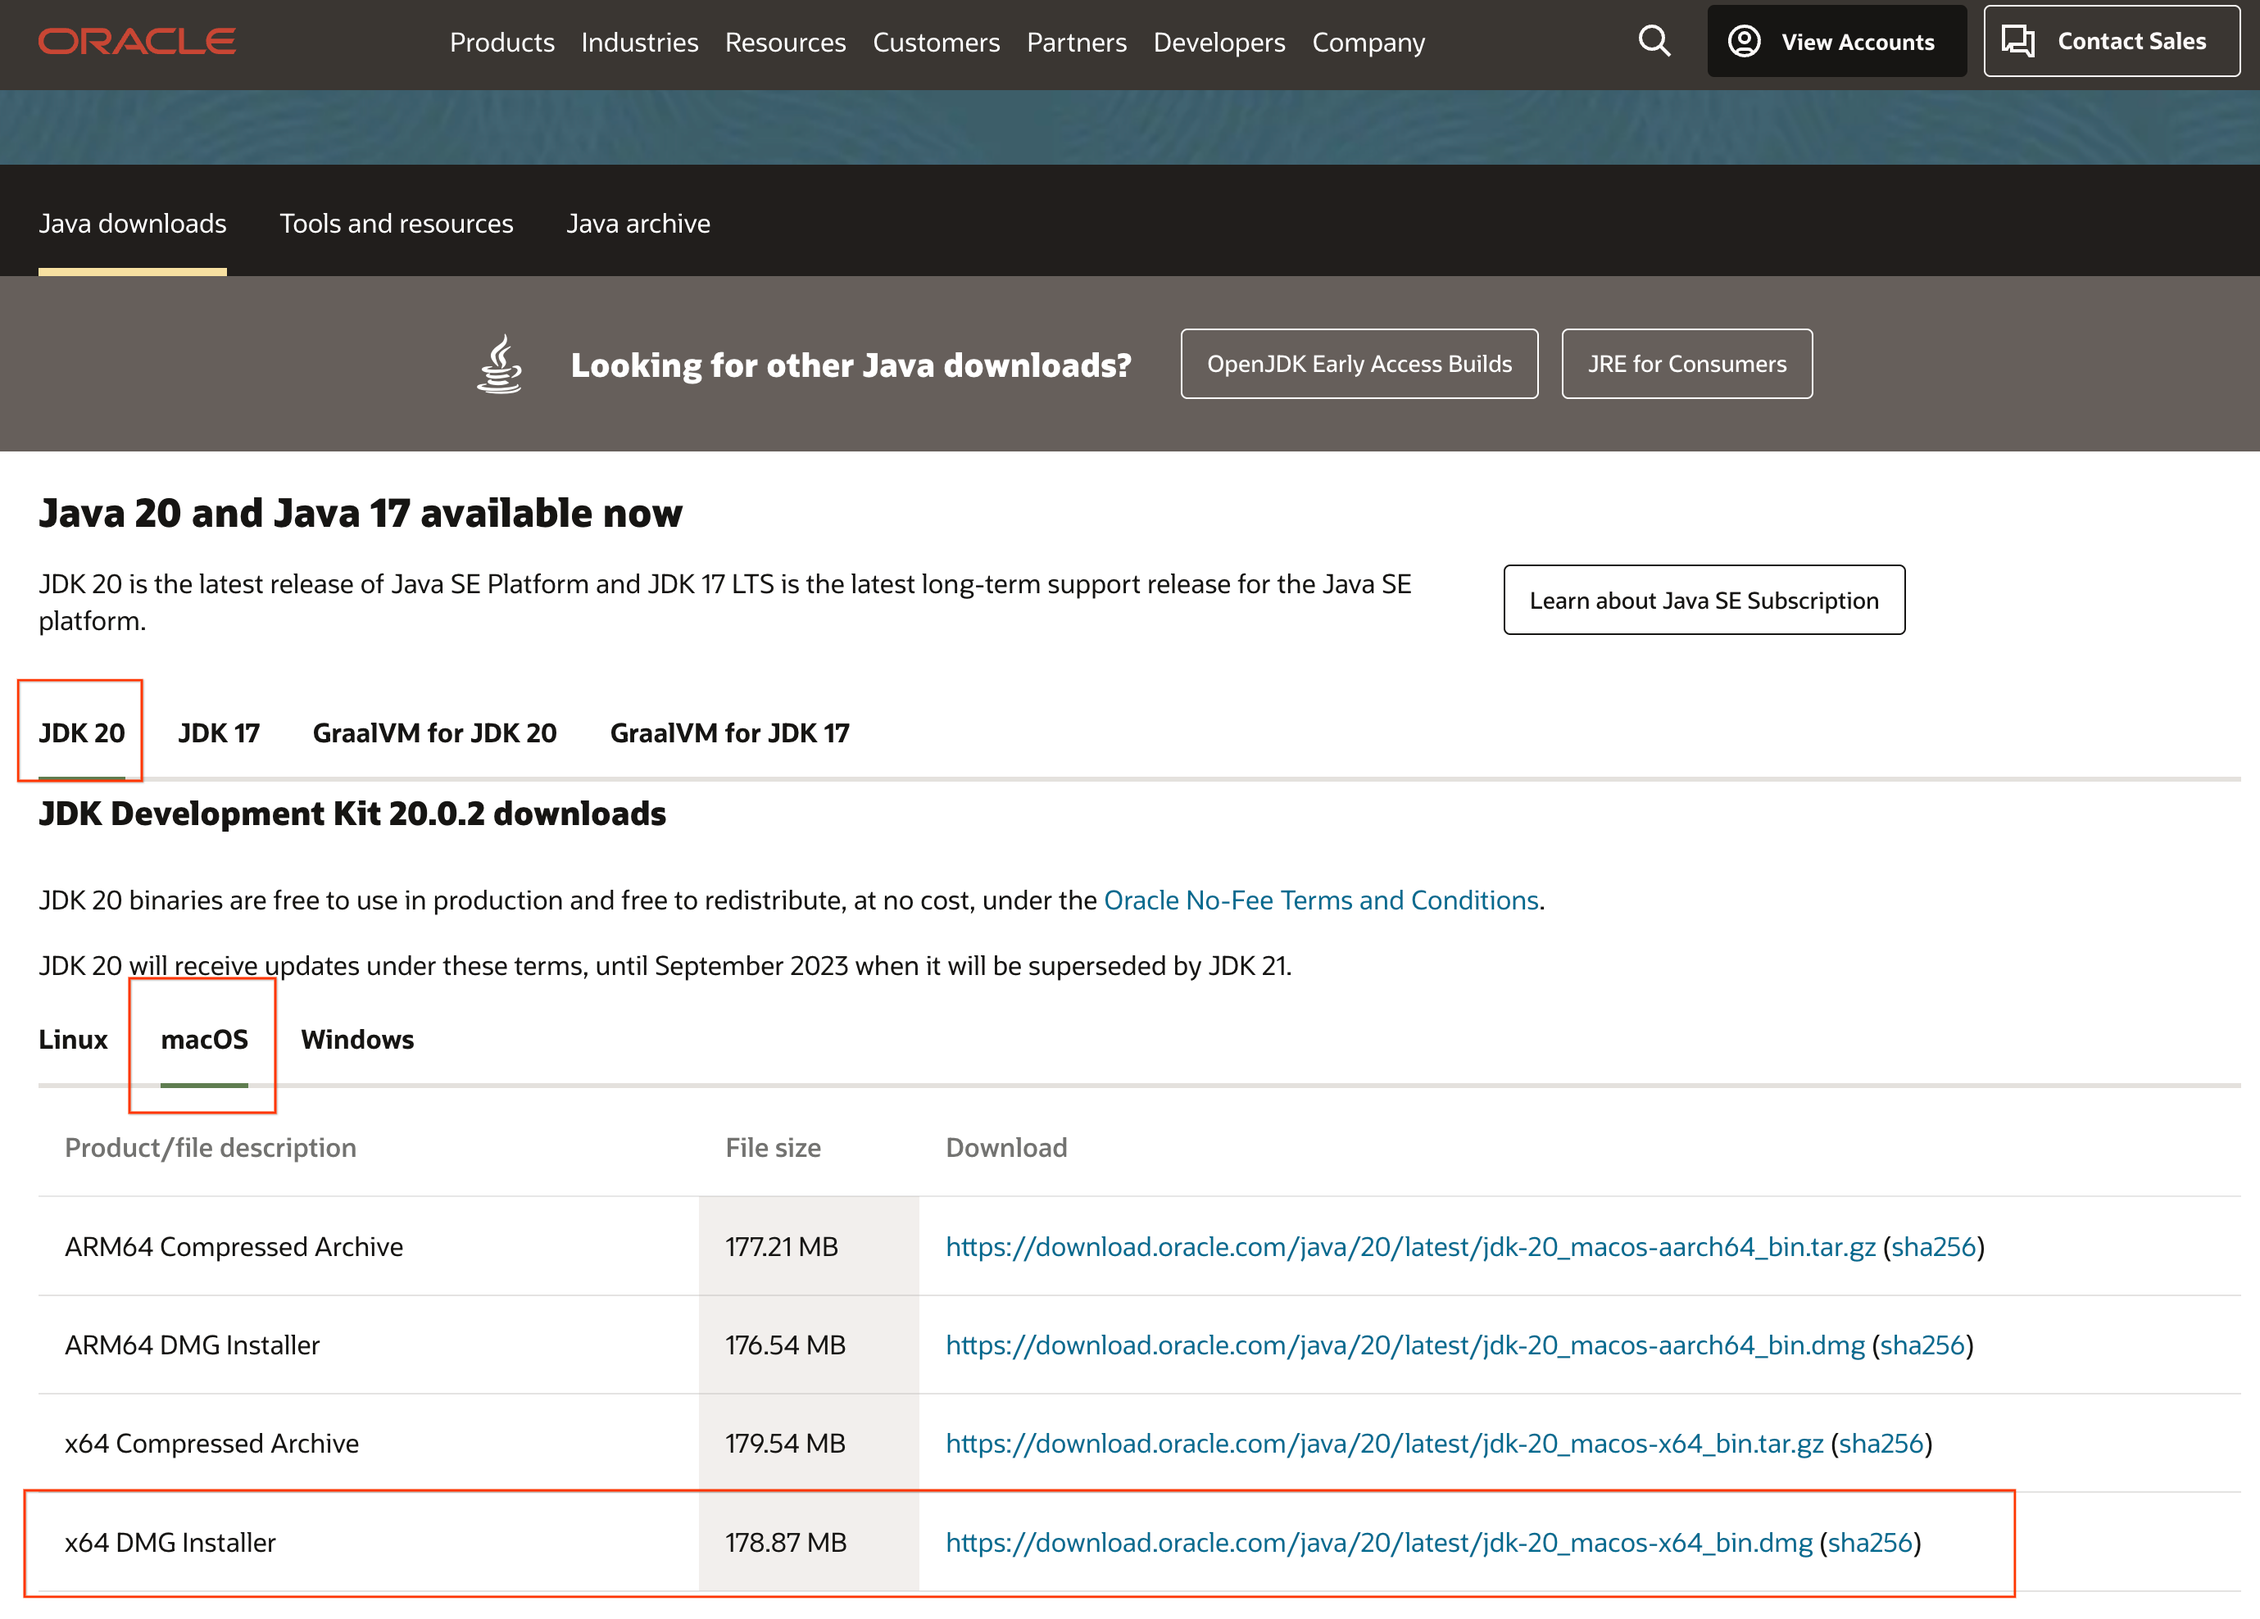
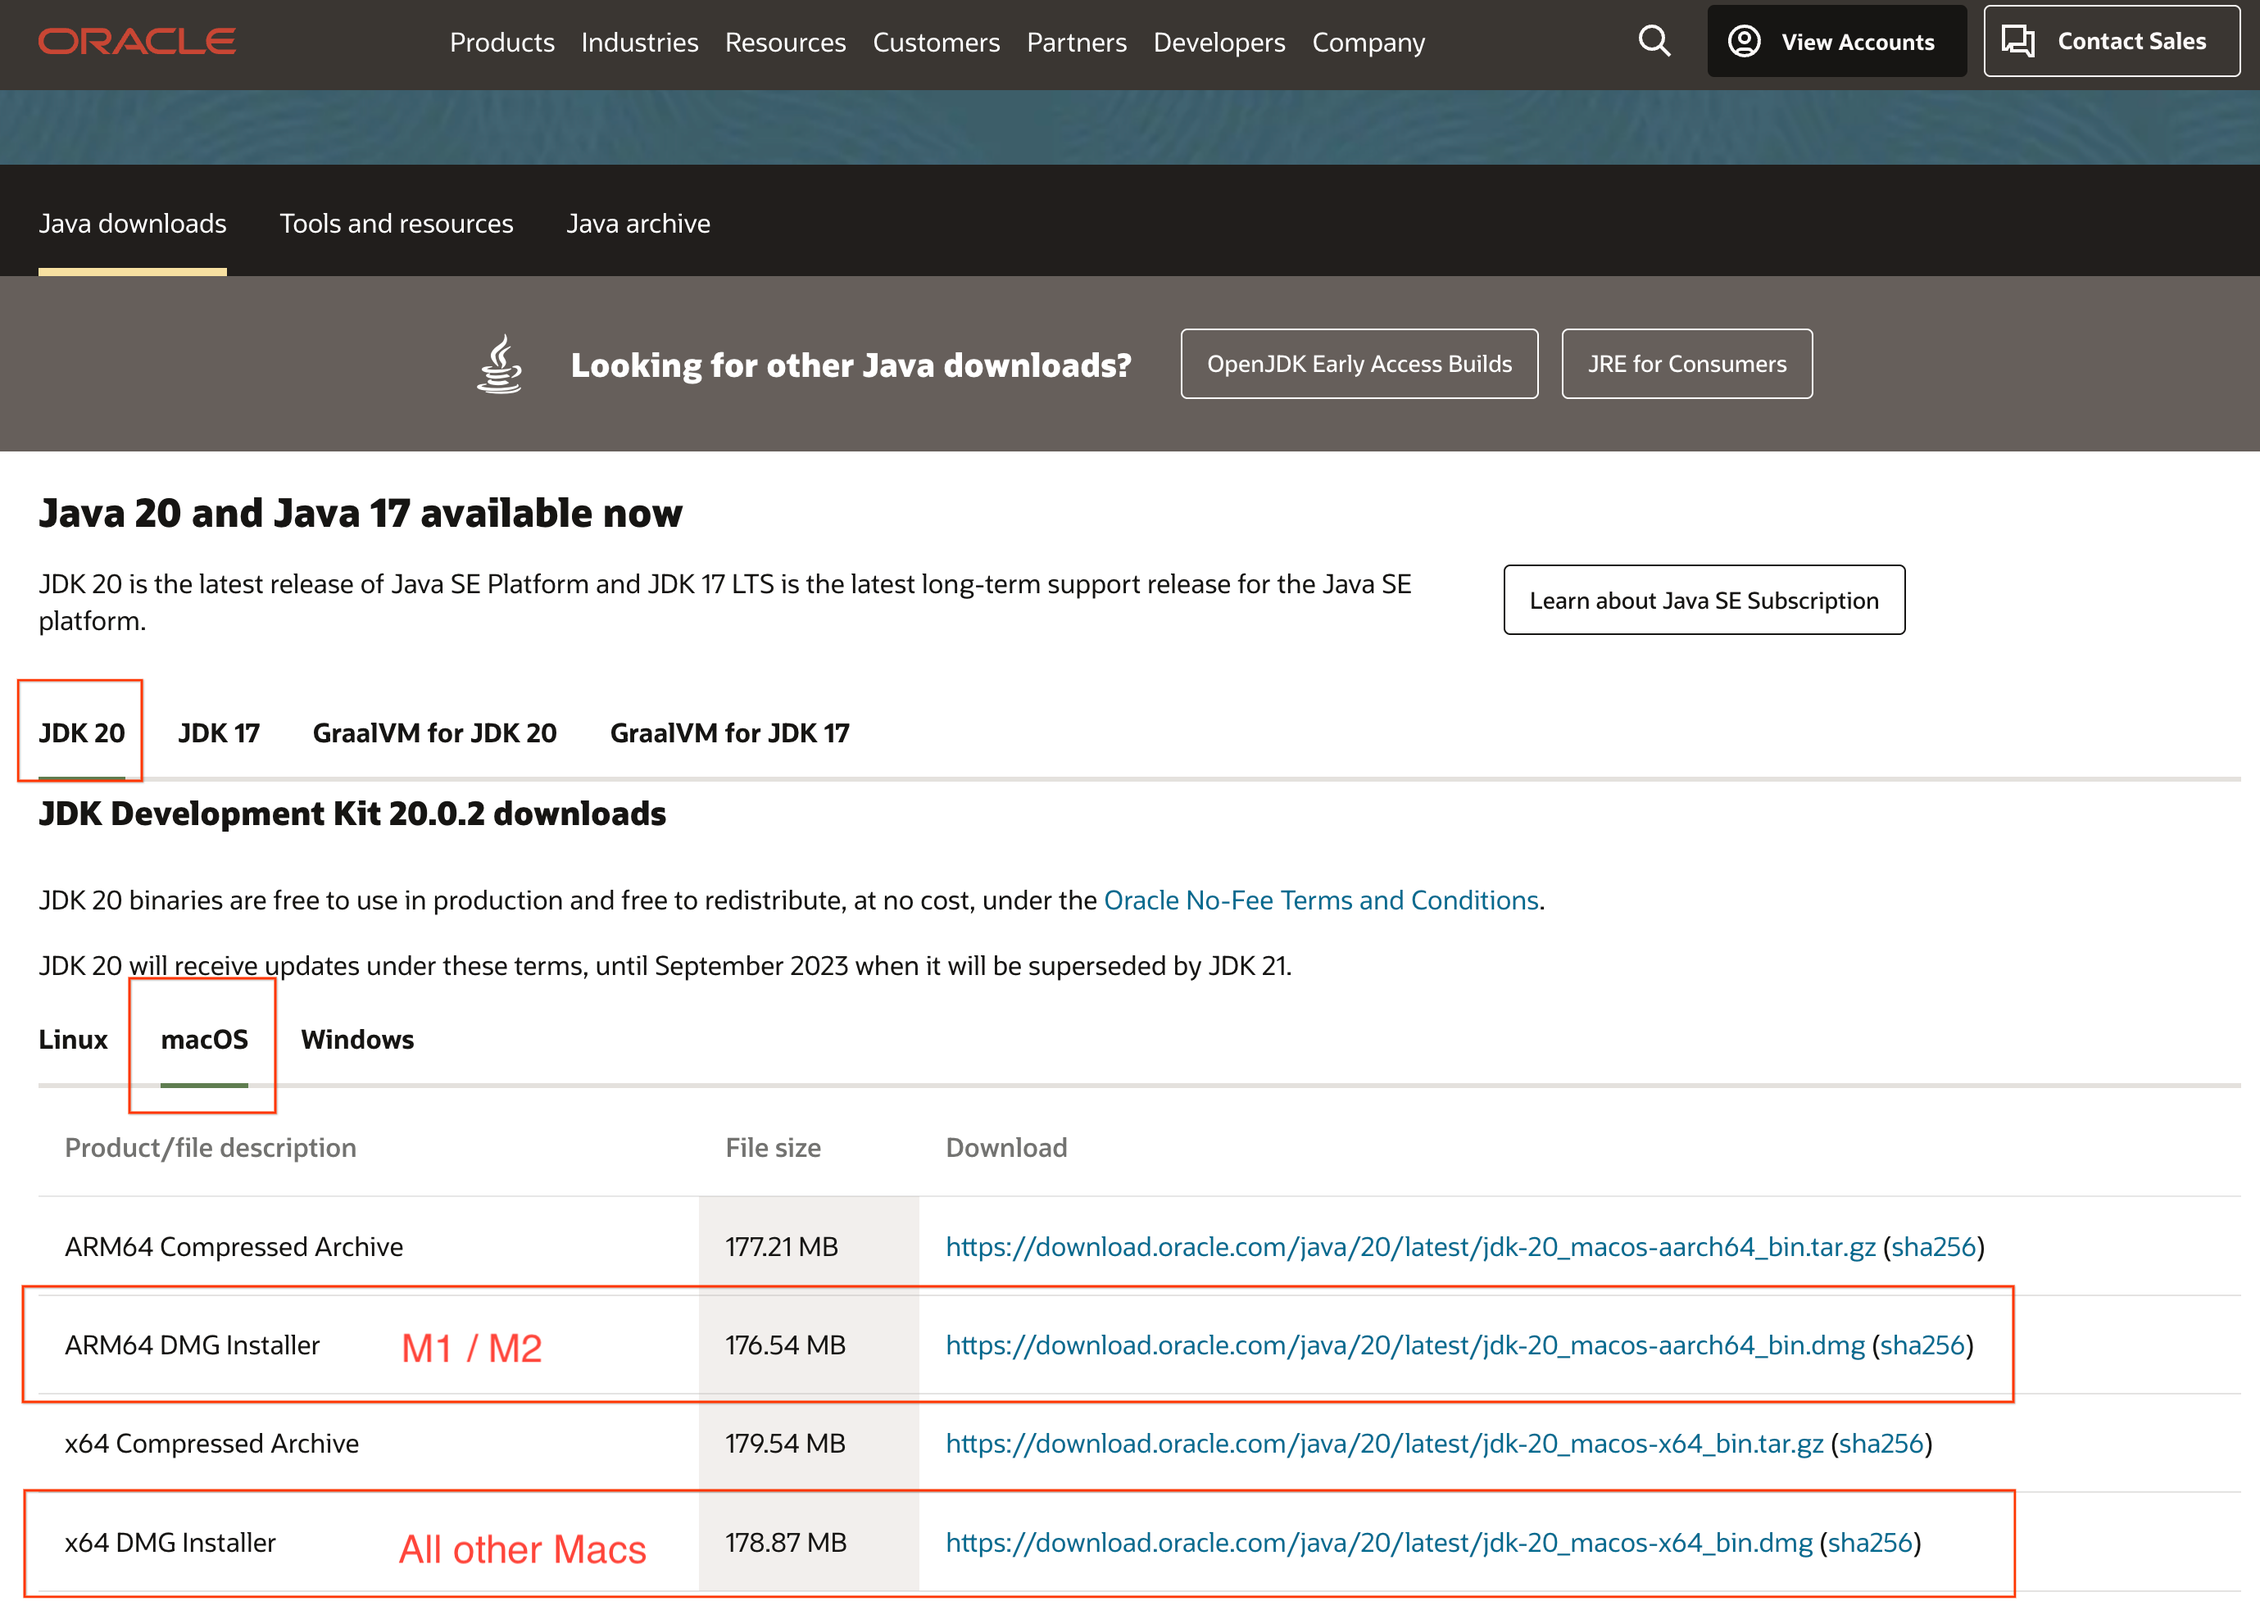
lab 0: address Lorelyne's comments

Changed region(s): [[0.1871, 0.9261, 0.2806, 0.9879], [0.2183, 0.8026, 0.2495, 0.8335]]

diff --git a/labs/0/spec.md b/labs/0/spec.md
@@ -60,11 +60,16 @@ We will use GitBash.
 
 1. Follow the instructions on the [Oracle website](https://docs.oracle.com/en/java/javase/20/install/installation-jdk-macos.html#GUID-F575EB4A-70D3-4AB4-A20E-DBE95171AB5F) for "Installing the JDK on macOS".
 
-	On the download screen, select `JDK 20` and `macOS`, and then download the `x64 DMG Installer`.
+	On the download screen, select `JDK 20` and `macOS`. And then for Macs with...
+	- M1 or M2 processors, download the `ARM64 DMG Installer`.
+	- Intel processors, download the `x64 DMG Installer`.
+
+	{: .tip }
+	If you're not sure which processor you have, you can find out in the Apple menu in the top left corner > About This Mac. See this [Apple help article](https://support.apple.com/en-us/HT211814) for more details.
 
 	![](mac-java-download.png)
 
-2. Finally, test that Java installed properly by typing:
+2. Finally, test that Java installed properly by running the following in your terminal:
 
 	```shell
 	java -version
